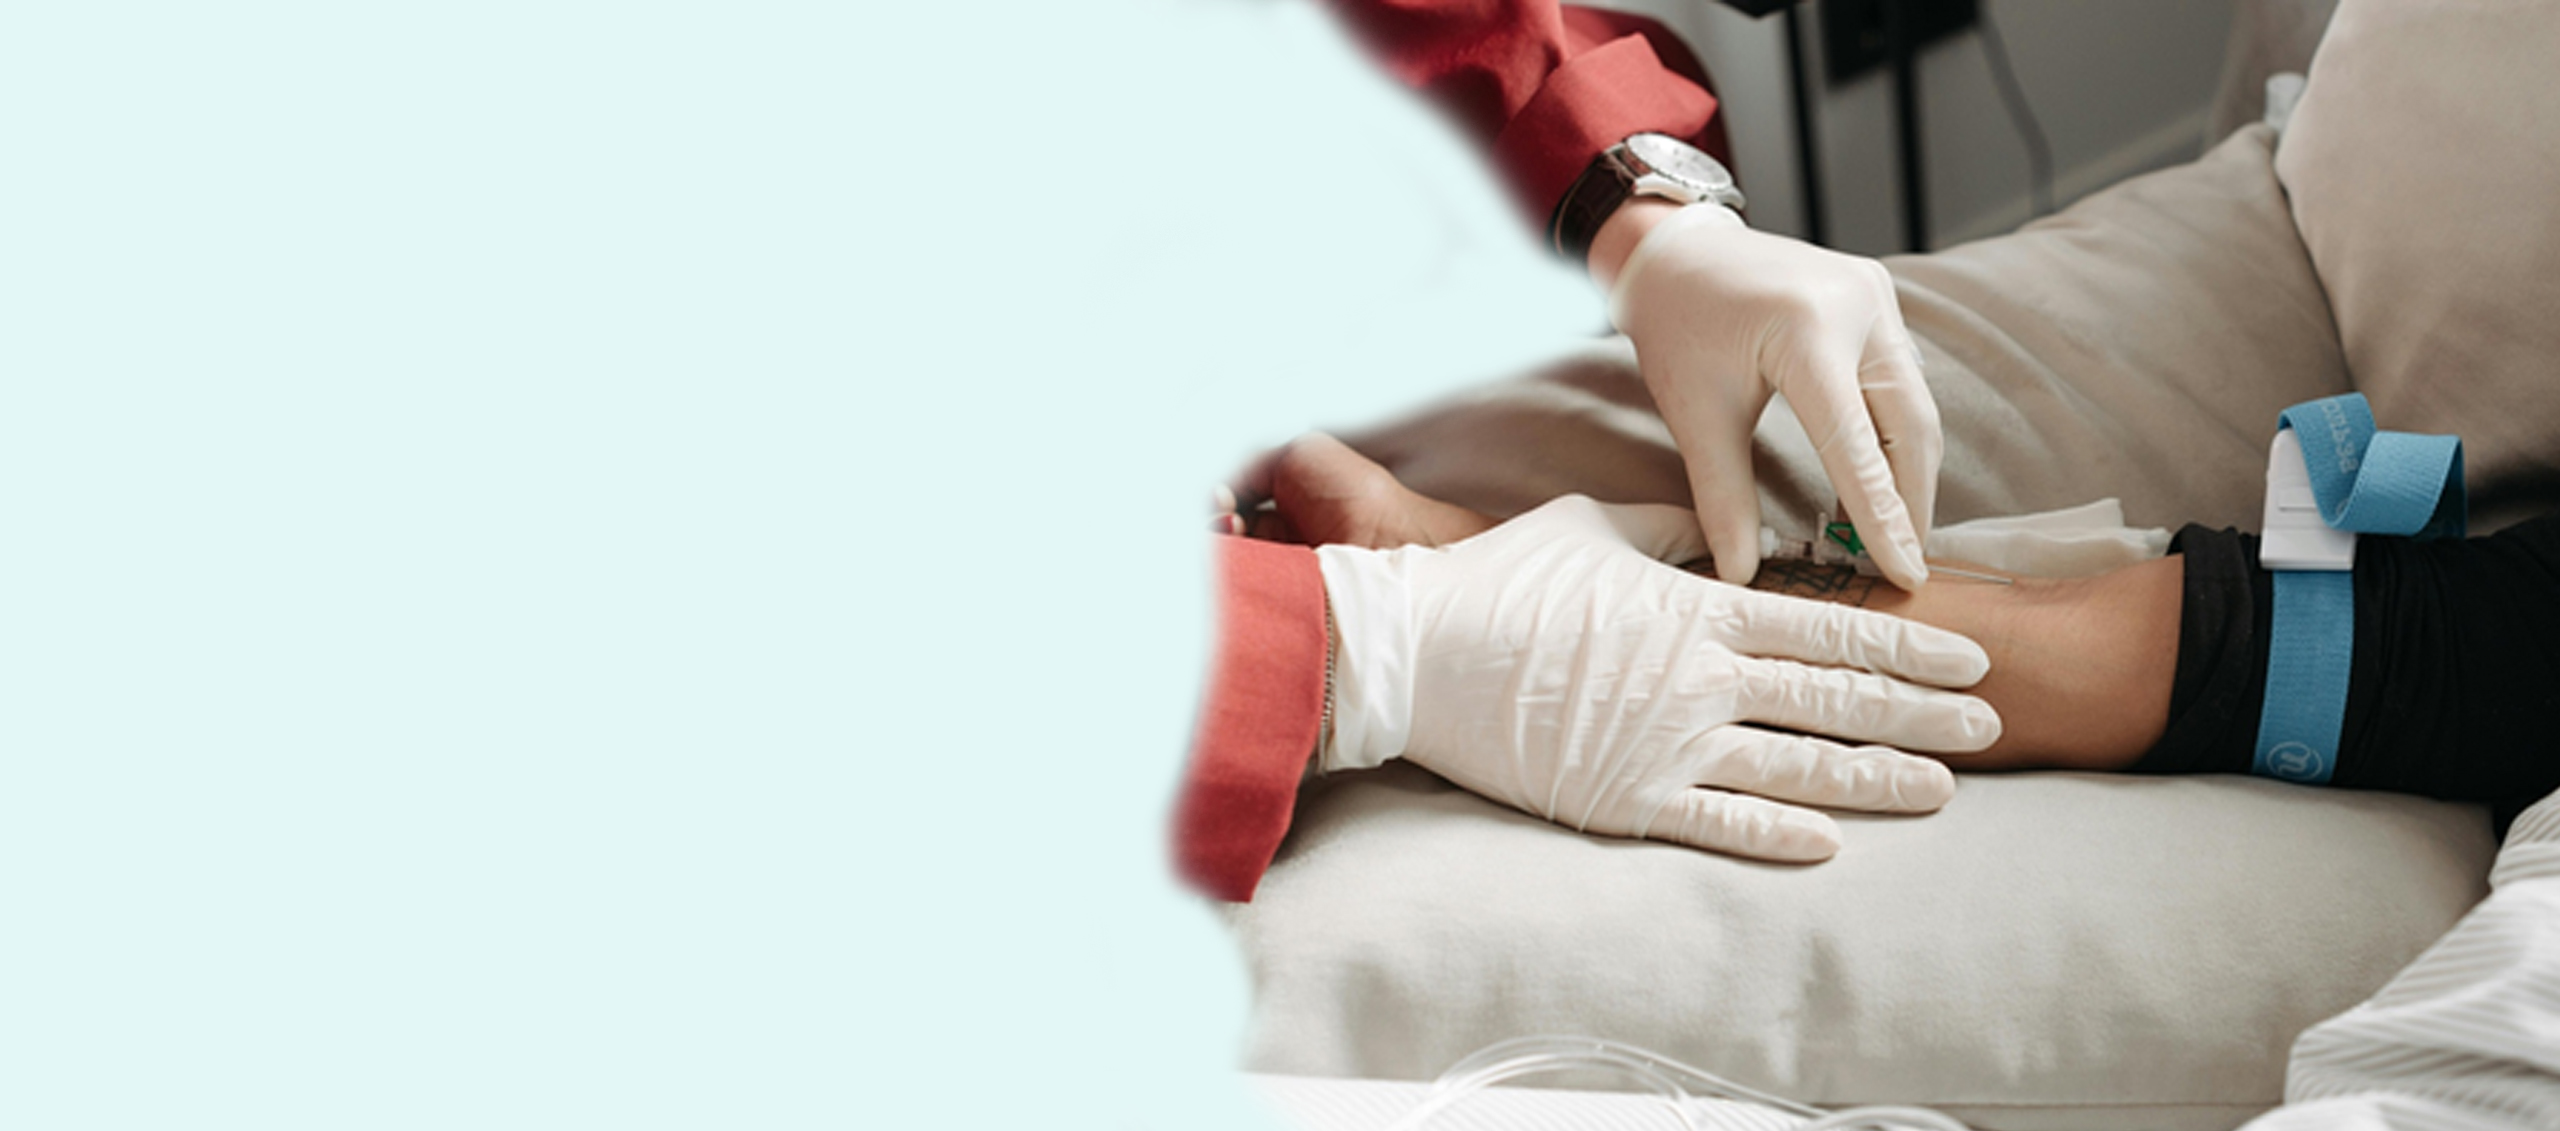
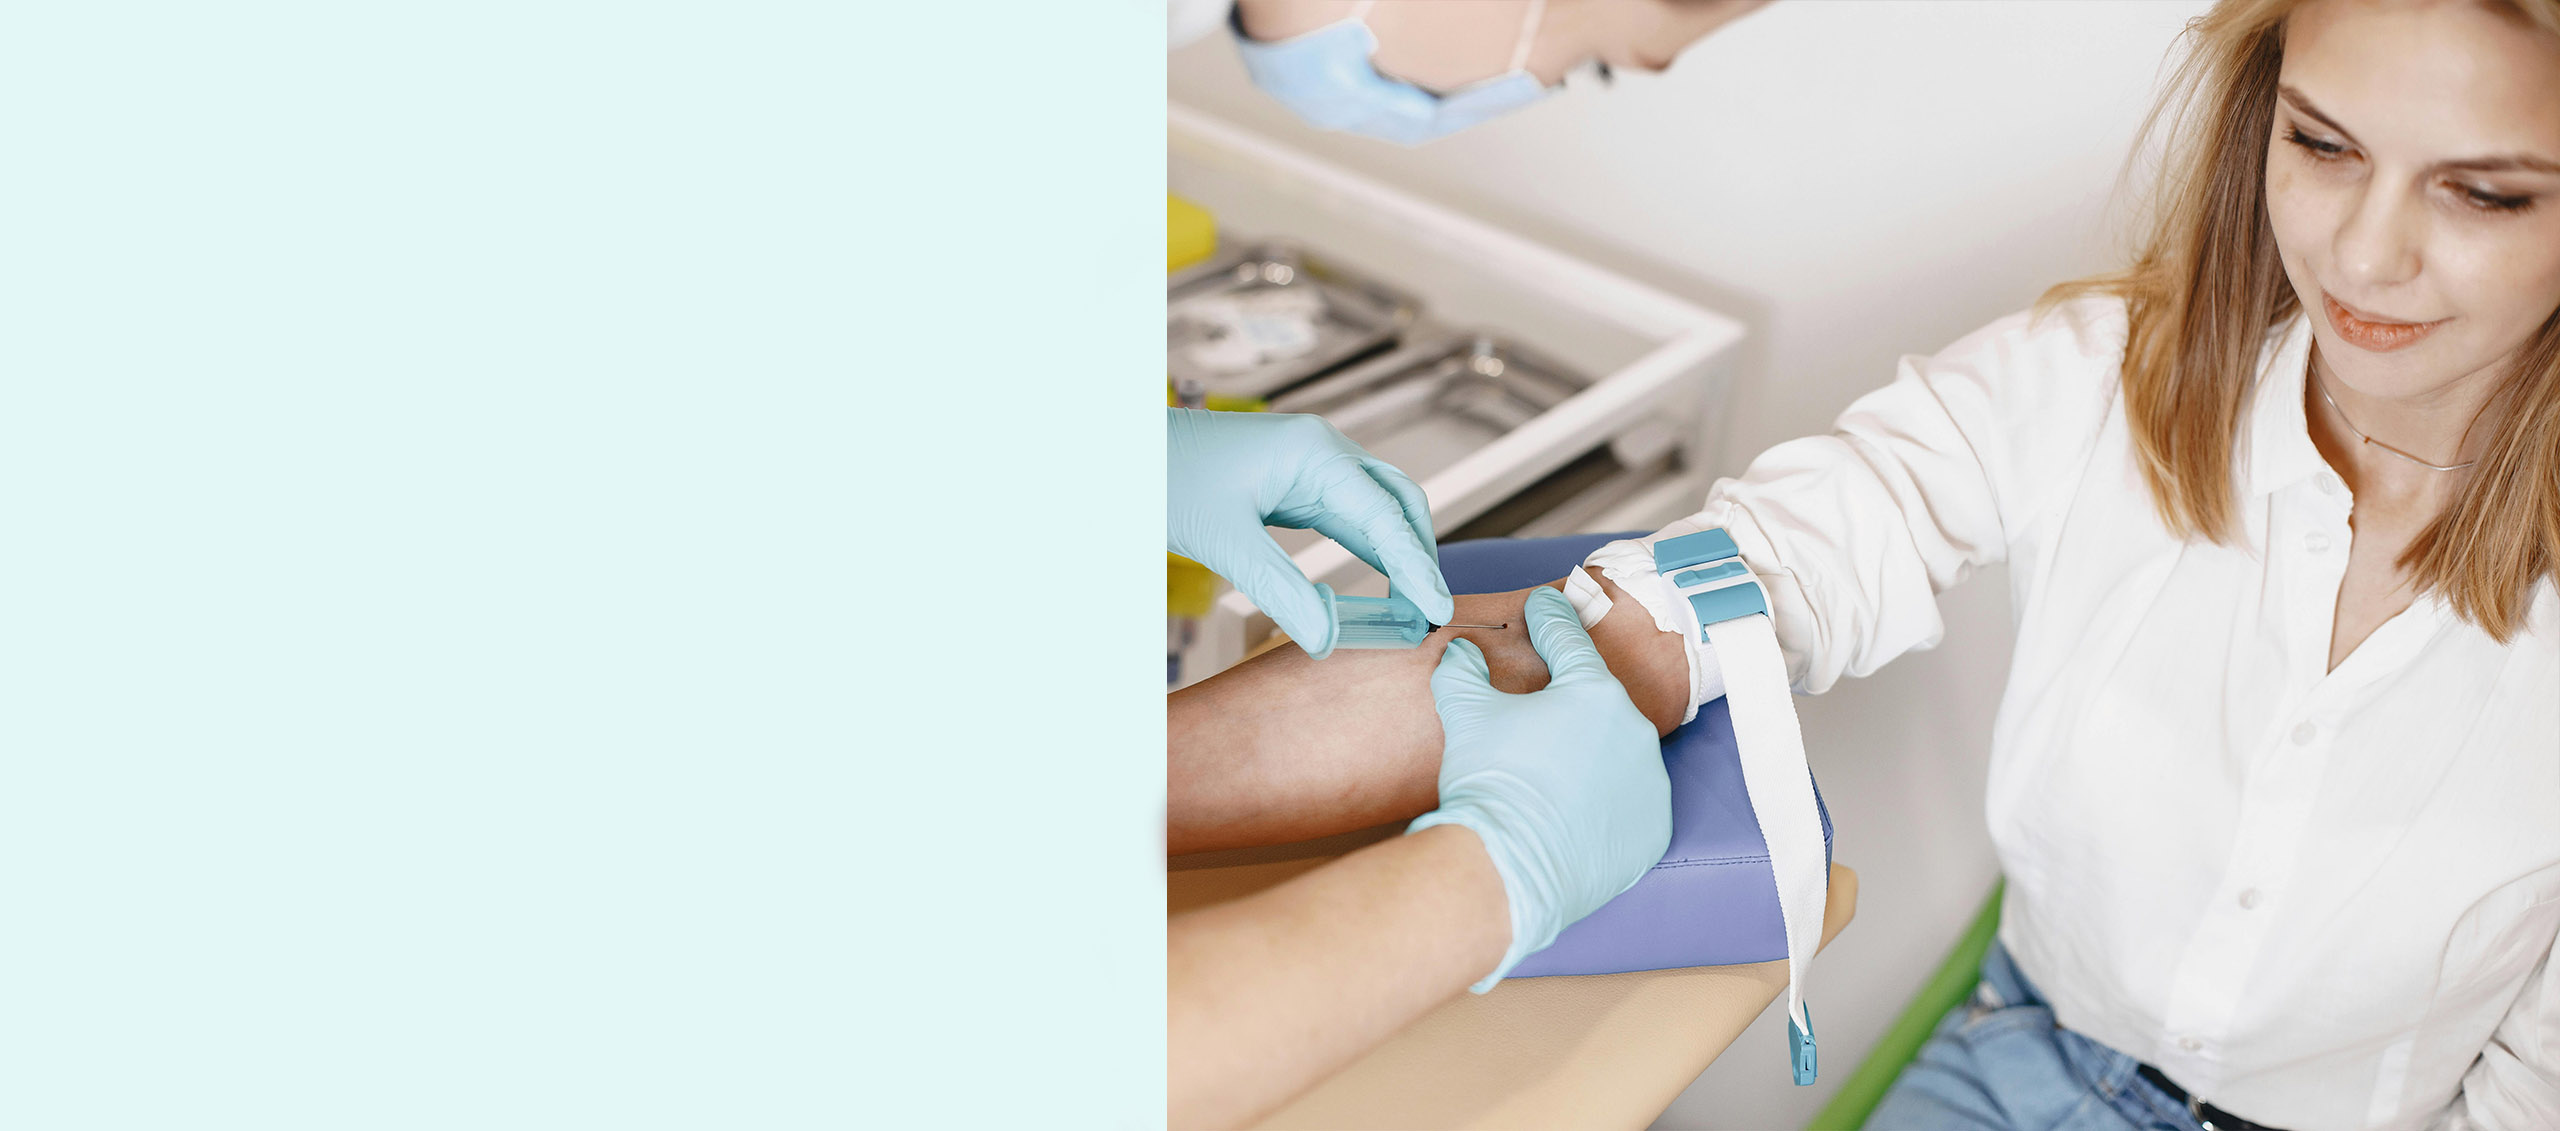
mobile change

diff --git a/public/assets/css/main.css b/public/assets/css/main.css
@@ -9230,12 +9230,14 @@ html {
 }
 
 /*# sourceMappingURL=main.css.map */
-
+.hero-1 {
+    height: 90vh;
+}
 .heroBanner {
   background: url(../../assets/img/banner-frontpage-Drip.jpg) no-repeat;
   background-size: cover;
   position: relative;
-  min-height: 100vh;
+  min-height: 90vh;
   display: flex;
   box-sizing: border-box;
 }
@@ -9586,7 +9588,7 @@ section.subcribeSection {
 }
 
 .heroBanner .heroBannerInfo .heroBannerText .bannerContent {
-  width: 50%;
+  width: 40%;
 }
 
 h1 {
@@ -10343,6 +10345,16 @@ h6 {
 }
 .heroBanner.glutathione {
   background: url(../../assets/img/glutathione_mob.png) no-repeat;
+}
+.heroBanner {
+    background: url(../../assets/img/banner-frontpage-Drip_mob.png) no-repeat;
+   
+    min-width: auto;
+    min-height: auto;
+    background-size: 100%;
+}
+.hero-1 {
+    height: auto;
 }
 .otherBanner .heroBanner {
     background-size: 100%!important;
